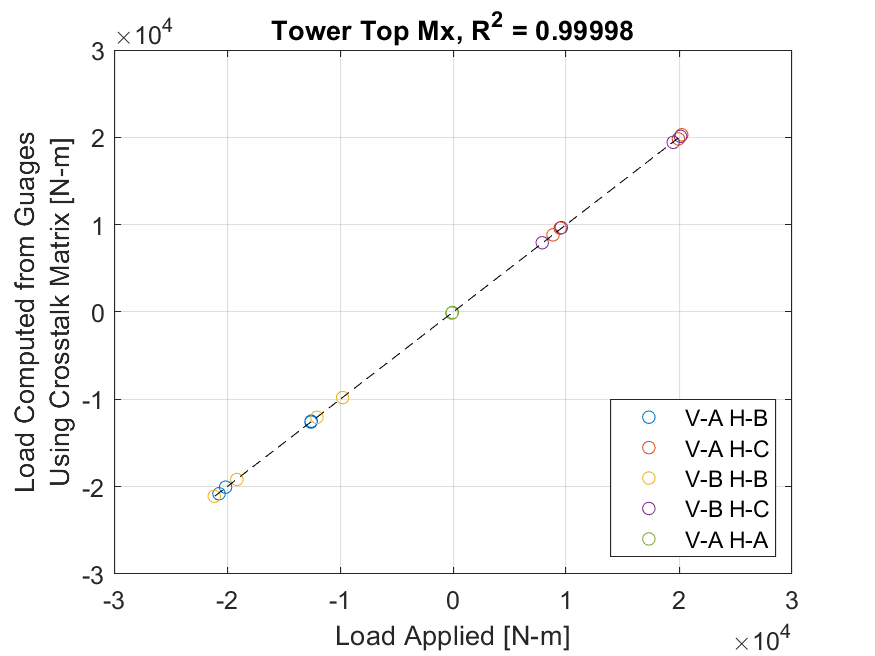
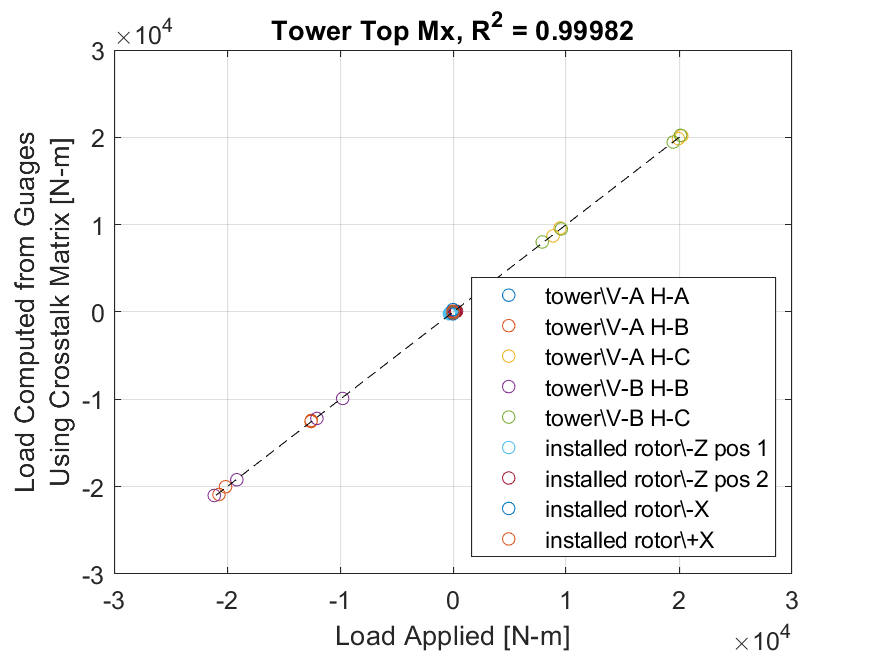
Rotor torque added to tower top cross talk matrix

diff --git a/processing/implementations/10m_Spanish_Fork_testing/Calibrations/Inputs/Tower Top/calibration_matrix_inputs__tower_top_pulls.m b/processing/implementations/10m_Spanish_Fork_testing/Calibrations/Inputs/Tower Top/calibration_matrix_inputs__tower_top_pulls.m
@@ -3,30 +3,30 @@ function [calib,crosstalk] = calibration_matrix_inputs__tower_top_pulls(consts)
 tol = 0.2; % Tolerance for comparison of solutions between pairs of guy wire foundations for plumb bob location[m]
 
 %% Crosstalk grouping high level info
-crosstalk.loads_names = {'Tower_Top_Fx','Tower_Top_Fy','Tower_Top_Mx','Tower_Top_My'}; % Names of physical loads of intrest which are applied during calibrations
+crosstalk.loads_names = {'Tower_Top_Fx','Tower_Top_Fy','Tower_Top_Mx','Tower_Top_My','Rotor_Torque'}; % Names of physical loads of intrest which are applied during calibrations
 crosstalk.channel_names = {'Upper GW N','Upper GW S','Upper GW E','Upper GW W',...
     'Lower GW N','Lower GW S','Lower GW E','Lower GW W',...
     'Torque Arm Left','Torque Arm Right','Nacelle Bending A','Nacelle Bending B'}; % Names of load channels of intrest
-crosstalk.output_units = {'N','N','N-m','N-m'};
+crosstalk.output_units = {'N','N','N-m','N-m','N-m'};
 calibNum = 0; % Initiate counting varible
 
 %% V-A, H-A
 calibNum = calibNum + 1;
-calib(calibNum).folder = 'V-A_H-A';
+calib(calibNum).folder = 'tower\V-A_H-A';
 
 % % Manually recorded information
-angle =[0.8; 0.8];
+angle = [0.8; 0.8];
 manual_applied_loads = [0, 0; 2116, 2111; 1132, 1146; 0, 0];
 coordinate = consts.foundation.S_GW__NE_bolt + [-2*12, 5]*consts.units.inch_to_m;
 
 % Calculated inputs
 theta = repmat(atand(coordinate(2)./ coordinate(1)),2,1);
-calib(calibNum).applied_load_scaling = cosd(angle).*[sind(theta), cosd(theta), sind(theta)*consts.heights.tower_top, cosd(theta)*consts.heights.tower_top];
+calib(calibNum).applied_load_scaling = cosd(angle).*[sind(theta), cosd(theta), sind(theta)*consts.heights.tower_top, cosd(theta)*consts.heights.tower_top, zeros(size(theta))];
 calib(calibNum).corrections.load = [(1:length(manual_applied_loads))', mean(manual_applied_loads,2)];
 
 %% V-A, H-B
 calibNum = calibNum + 1;
-calib(calibNum).folder = 'V-A_H-B';
+calib(calibNum).folder = 'tower\V-A_H-B';
 
 % Manually recorded information
 E_GW_dist = [39*12 + 11, 40*12 + 1, 40*12 + 3, 40*12 + 4]*consts.units.inch_to_m;
@@ -36,59 +36,95 @@ angle = [0.5; 0.3; 0.30; 0.50];
 manual_applied_loads = [0, 0; 1957, 1951; 1177.5, 1182.5; 0, 0; 1171.2, 1179; 1885, 1882.5; 0, 0];
 
 % Calculated inputs
-theta = get_tower_pull_coordinate(E_GW_dist,S_GW_dist,W_GW_dist,consts.foundation.E_GW__SW_bolt,consts.foundation.W_GW__SE_bolt,consts.foundation.S_GW__NW_bolt,tol);
-calib(calibNum).applied_load_scaling = cosd(angle).*[sind(theta), cosd(theta), sind(theta)*consts.heights.tower_top, cosd(theta)*consts.heights.tower_top];
+theta = get_tower_pull_coordinate(E_GW_dist,S_GW_dist,W_GW_dist,consts.foundation.E_GW__SW_bolt,consts.foundation.S_GW__NW_bolt,consts.foundation.W_GW__SE_bolt,tol);
+calib(calibNum).applied_load_scaling = cosd(angle).*[sind(theta), cosd(theta), sind(theta)*consts.heights.tower_top, cosd(theta)*consts.heights.tower_top, zeros(size(theta))];
 calib(calibNum).corrections.load = [(1:length(manual_applied_loads))', mean(manual_applied_loads,2)];
-
 
 %% V-A, H-C
 calibNum = calibNum + 1;
-calib(calibNum).folder = 'V-A_H-C';
+calib(calibNum).folder = 'tower\V-A_H-C';
 
 % Manually recorded information
 E_GW_dist = [18*12 + 1, 18*12 + 7, 18*12 + 3, 18*12 + 9]*consts.units.inch_to_m;
-S_GW_dist =[15*12 + 7, 15*12 + 1, 15*12 + 7, 15*12 + 6]*consts.units.inch_to_m;
+S_GW_dist = [15*12 + 7, 15*12 + 1, 15*12 + 7, 15*12 + 6]*consts.units.inch_to_m;
 W_GW_dist = [39*12 + 3, 39*12 + 2, 39*12 + 1, 39*12 + 1]*consts.units.inch_to_m;
 angle = [2.8; 2.8; 2.1; 3];
 manual_applied_loads = [0, 0; 0, 0; 1976.5, 1975.5; 965.5, 969.5; 0, 0; 0, 0; 880.5, 880.5; 2049, 2050; 0, 0];
 
 % Calculated inputs
-theta = get_tower_pull_coordinate(E_GW_dist,S_GW_dist,W_GW_dist,consts.foundation.E_GW__SW_bolt,consts.foundation.W_GW__SE_bolt,consts.foundation.S_GW__NE_bolt,tol);
-calib(calibNum).applied_load_scaling = cosd(angle).*[sind(theta), cosd(theta), sind(theta)*consts.heights.tower_top, cosd(theta)*consts.heights.tower_top];
+theta = get_tower_pull_coordinate(E_GW_dist,S_GW_dist,W_GW_dist,consts.foundation.E_GW__SW_bolt,consts.foundation.S_GW__NE_bolt,consts.foundation.W_GW__SE_bolt,tol);
+calib(calibNum).applied_load_scaling = cosd(angle).*[sind(theta), cosd(theta), sind(theta)*consts.heights.tower_top, cosd(theta)*consts.heights.tower_top, zeros(size(theta))];
 calib(calibNum).corrections.load = [(1:length(manual_applied_loads))', mean(manual_applied_loads,2)];
 
 %% V-B, H-B
 calibNum = calibNum + 1;
-calib(calibNum).folder = 'V-B_H-B';
+calib(calibNum).folder = 'tower\V-B_H-B';
 
 % Manually recorded information
 E_GW_dist = [42*12 + 4, 42*12 + 5, 42*12 + 11, 43*12]*consts.units.inch_to_m;
-S_GW_dist =[17*12 + 2, 17*12 + 2.5, 17*12 + 3.5, 17*12 + 7]*consts.units.inch_to_m;
+S_GW_dist = [17*12 + 2, 17*12 + 2.5, 17*12 + 3.5, 17*12 + 7]*consts.units.inch_to_m;
 W_GW_dist = [16*12 + 11, 16*12 + 11.5, 16*12 + 10.5, 16*12 + 11]*consts.units.inch_to_m;
 angle = [(-9.3+-10.6)/2; (-10.1+-11.5)/2;...
     (-10.4+-11.0)/2; (-9.1+-9.1)/2];
 manual_applied_loads = [0, 0; 1804, 1804; 924, 923; 0, 0; 1133, 1136; 1969, 1964; 0, 0];
 
 % Calculated inputs
-theta = get_tower_pull_coordinate(E_GW_dist,S_GW_dist,W_GW_dist,consts.foundation.E_GW__SW_bolt,consts.foundation.W_GW__SE_bolt,consts.foundation.S_GW__NW_bolt,tol);
-calib(calibNum).applied_load_scaling = cosd(angle).*[sind(theta), cosd(theta), sind(theta)*consts.heights.tower_top, cosd(theta)*consts.heights.tower_top];
+theta = get_tower_pull_coordinate(E_GW_dist,S_GW_dist,W_GW_dist,consts.foundation.E_GW__SW_bolt,consts.foundation.S_GW__NW_bolt,consts.foundation.W_GW__SE_bolt,tol);
+calib(calibNum).applied_load_scaling = cosd(angle).*[sind(theta), cosd(theta), sind(theta)*consts.heights.tower_top, cosd(theta)*consts.heights.tower_top, zeros(size(theta))];
 calib(calibNum).corrections.load = [(1:length(manual_applied_loads))', mean(manual_applied_loads,2)];
 
 %% V-B, H-C
 calibNum = calibNum + 1;
-calib(calibNum).folder = 'V-B_H-C';
+calib(calibNum).folder = 'tower\V-B_H-C';
 
 % Manually recorded information
 E_GW_dist = [18*12 + 0, 18*12 + 1, 18*12 + 0, 17*12 + 11]*consts.units.inch_to_m;
-S_GW_dist =[15*12 + 6.5, 15*12 + 4, 15*12 + 6, 15*12 + 6]*consts.units.inch_to_m;
+S_GW_dist = [15*12 + 6.5, 15*12 + 4, 15*12 + 6, 15*12 + 6]*consts.units.inch_to_m;
 W_GW_dist = [37*12 + 10, 37*12 + 5, 37*12 + 8, 37*12 + 7]*consts.units.inch_to_m;
-angle =[-11.9; -12.3; -11.8; -11.9];
+angle = [-11.9; -12.3; -11.8; -11.9];
 manual_applied_loads = [0, 0; 1982, 1979; 815, 808.5; 0, 0; 975, 976; 2043.5, 2045; 0, 0];
 
 % Calculated inputs
-theta = get_tower_pull_coordinate(E_GW_dist,S_GW_dist,W_GW_dist,consts.foundation.E_GW__SW_bolt,consts.foundation.W_GW__SE_bolt,consts.foundation.S_GW__NE_bolt,tol);
-calib(calibNum).applied_load_scaling = cosd(angle).*[sind(theta), cosd(theta), sind(theta)*consts.heights.tower_top, cosd(theta)*consts.heights.tower_top];
+theta = get_tower_pull_coordinate(E_GW_dist,S_GW_dist,W_GW_dist,consts.foundation.E_GW__SW_bolt,consts.foundation.S_GW__NE_bolt,consts.foundation.W_GW__SE_bolt,tol);
+calib(calibNum).applied_load_scaling = cosd(angle).*[sind(theta), cosd(theta), sind(theta)*consts.heights.tower_top, cosd(theta)*consts.heights.tower_top, zeros(size(theta))];
 calib(calibNum).corrections.load = [(1:length(manual_applied_loads))', mean(manual_applied_loads,2)];
 
+%% -Z_pos_1
+calibNum = calibNum + 1;
+calib(calibNum).folder = 'installed_rotor\-Z_pos_1';
 
+% Manually recorded information
+N_GW_dist = (37*12 + 0)*consts.units.inch_to_m;
+S_GW_dist = (18*12 + 9)*consts.units.inch_to_m;
+W_GW_dist = (14*12 + 2)*consts.units.inch_to_m;
 
+% Calculated inputs
+theta = get_tower_pull_coordinate(N_GW_dist,S_GW_dist,W_GW_dist,consts.foundation.N_GW__SW_bolt,consts.foundation.S_GW__NW_bolt,consts.foundation.W_GW__SE_bolt,tol);
+calib(calibNum).applied_load_scaling = [0, 0, sind(theta)*consts.rotor.radius, cosd(theta)*consts.rotor.radius, zeros(size(theta))];
+
+%% -Z_pos_2
+calibNum = calibNum + 1;
+calib(calibNum).folder = 'installed_rotor\-Z_pos_2';
+
+% Manually recorded information
+N_GW_dist = (37*12 + 7)*consts.units.inch_to_m;
+S_GW_dist = (17*12 + 7)*consts.units.inch_to_m;
+E_GW_dist = (15*12 + 10)*consts.units.inch_to_m;
+
+% Calculated inputs
+theta = get_tower_pull_coordinate(N_GW_dist,S_GW_dist,E_GW_dist,consts.foundation.N_GW__SE_bolt,consts.foundation.S_GW__NE_bolt,consts.foundation.E_GW__SW_bolt,tol);
+calib(calibNum).applied_load_scaling = [0, 0, sind(theta)*consts.rotor.radius, cosd(theta)*consts.rotor.radius, zeros(size(theta))];
+
+%% Rotor torque, -X
+calibNum = calibNum + 1;
+calib(calibNum).folder = 'installed_rotor\-X';
+
+% Calculated inputs
+calib(calibNum).applied_load_scaling = [0, 0, 0, 0, -consts.rotor.radius*consts.units.lbf_to_N];
+
+%% Rotor torque, +X
+calibNum = calibNum + 1;
+calib(calibNum).folder = 'installed_rotor\+X';
+
+% Calculated inputs
+calib(calibNum).applied_load_scaling = [0, 0, 0, 0, consts.rotor.radius*consts.units.lbf_to_N];

diff --git a/processing/implementations/10m_Spanish_Fork_testing/Calibrations/get_tower_pull_coordinate.m b/processing/implementations/10m_Spanish_Fork_testing/Calibrations/get_tower_pull_coordinate.m
@@ -1,11 +1,11 @@
-function theta = get_tower_pull_coordinate(E_GW__SW_bolt_dist,S_GW__NW_bolt_dist,W_GW__SE_bolt_dist,E_GW__SW_bolt,W_GW__SE_bolt,S_GW__NW_bolt,tol)
+function theta = get_tower_pull_coordinate(dA,dB,dC,A,B,C,tol)
 
-for II = 1:length(E_GW__SW_bolt_dist)
-    if isnan(E_GW__SW_bolt_dist(II)) && isnan(S_GW__NW_bolt_dist(II)) && isnan(W_GW__SE_bolt_dist(II))
+for II = 1:length(dA)
+    if isnan(dA(II)) && isnan(dB(II)) && isnan(dC(II))
         coordinate(II,:) = [NaN, NaN, NaN];
     else
-        coordinate(II,:) = get_pull_coordiante_3D(E_GW__SW_bolt,W_GW__SE_bolt,S_GW__NW_bolt,...
-            E_GW__SW_bolt_dist(II),W_GW__SE_bolt_dist(II),S_GW__NW_bolt_dist(II),tol);
+        coordinate(II,:) = get_pull_coordiante_3D(A,C,B,...
+            dA(II),dC(II),dB(II),tol);
     end
 end
 
@@ -13,9 +13,9 @@ theta = atand(coordinate(:,2)./ coordinate(:,1));
 
 end
 
-function coordinate = get_pull_coordiante_3D(E,W,S,dE,dW,dS,tol)
+function coordinate = get_pull_coordiante_3D(A,B,C,dA,dB,dC,tol)
 % Find x,y
-coordinate = trilateration_2D_from_three_measurments(E,W,S,dE,dW,dS,tol);
+coordinate = trilateration_2D_from_three_measurments(A,B,C,dA,dB,dC,tol);
 end
 
 function P_avg = trilateration_2D_from_three_measurments(A,B,C,dA,dB,dC,tol)

diff --git a/processing/implementations/10m_Spanish_Fork_testing/Calibrations/tower_top_calibration.m b/processing/implementations/10m_Spanish_Fork_testing/Calibrations/tower_top_calibration.m
@@ -4,18 +4,26 @@ clc
 
 %% Initialize
 consts = XFlow_Spanish_Fork_testing_constants();
+count = 0;
 
 %% Constants
 data_path = 'X:\Experiments and Data\20 kW Prototype\Loads_Data\load_calibrations\';
-data_folder = 'tower';
+data_folder = '';
 makePlots = 1;
 savePath = fullfile(fileparts(mfilename('fullpath')),'Results');
 saveName = 'tower_top_cal_struct';
 tdmsPrefix.data_files = {'data_gw_strain','data_nacelle_strain'};
 tdmsPrefix.applied_load = 'data_rotor_strain';
+
 %% Tower top
+count = count + 1;
 [calib,crosstalk] = calibration_matrix_inputs__tower_top_pulls(consts);
-cal = build_crosstalk_matrix(crosstalk,calib,data_path,data_folder,tdmsPrefix,makePlots,savePath);
+cal(count) = build_crosstalk_matrix(crosstalk,calib,data_path,data_folder,tdmsPrefix,makePlots,savePath);
+
+%% Rotor Torque
+count = count + 1;
+[calib,crosstalk] = calibration_matrix_inputs__rotor_torque(consts);
+cal(count) = build_crosstalk_matrix(crosstalk,calib,data_path,data_folder,tdmsPrefix,makePlots,savePath);
 
 %% Save
 save(fullfile(savePath,saveName),'cal')

diff --git a/processing/implementations/10m_Spanish_Fork_testing/Calibrations/Inputs/Tower Top/calibration_matrix_inputs__rotor_torque.m b/processing/implementations/10m_Spanish_Fork_testing/Calibrations/Inputs/Tower Top/calibration_matrix_inputs__rotor_torque.m
@@ -1,0 +1,23 @@
+function [calib,crosstalk] = calibration_matrix_inputs__rotor_torque(consts)
+
+tol = 0.2; % Tolerance for comparison of solutions between pairs of guy wire foundations for plumb bob location[m]
+
+%% Crosstalk grouping high level info
+crosstalk.loads_names = {'Rotor_Torque'}; % Names of physical loads of intrest which are applied during calibrations
+crosstalk.channel_names = {'Torque Arm Left','Torque Arm Right'}; % Names of load channels of intrest
+crosstalk.output_units = {'N-m'};
+calibNum = 0; % Initiate counting varible
+
+%% Rotor torque, -X
+calibNum = calibNum + 1;
+calib(calibNum).folder = 'installed_rotor\-X';
+
+% Calculated inputs
+calib(calibNum).applied_load_scaling = -consts.rotor.radius*consts.units.lbf_to_N;
+
+%% Rotor torque, +X
+calibNum = calibNum + 1;
+calib(calibNum).folder = 'installed_rotor\+X';
+
+% Calculated inputs
+calib(calibNum).applied_load_scaling = consts.rotor.radius*consts.units.lbf_to_N;
